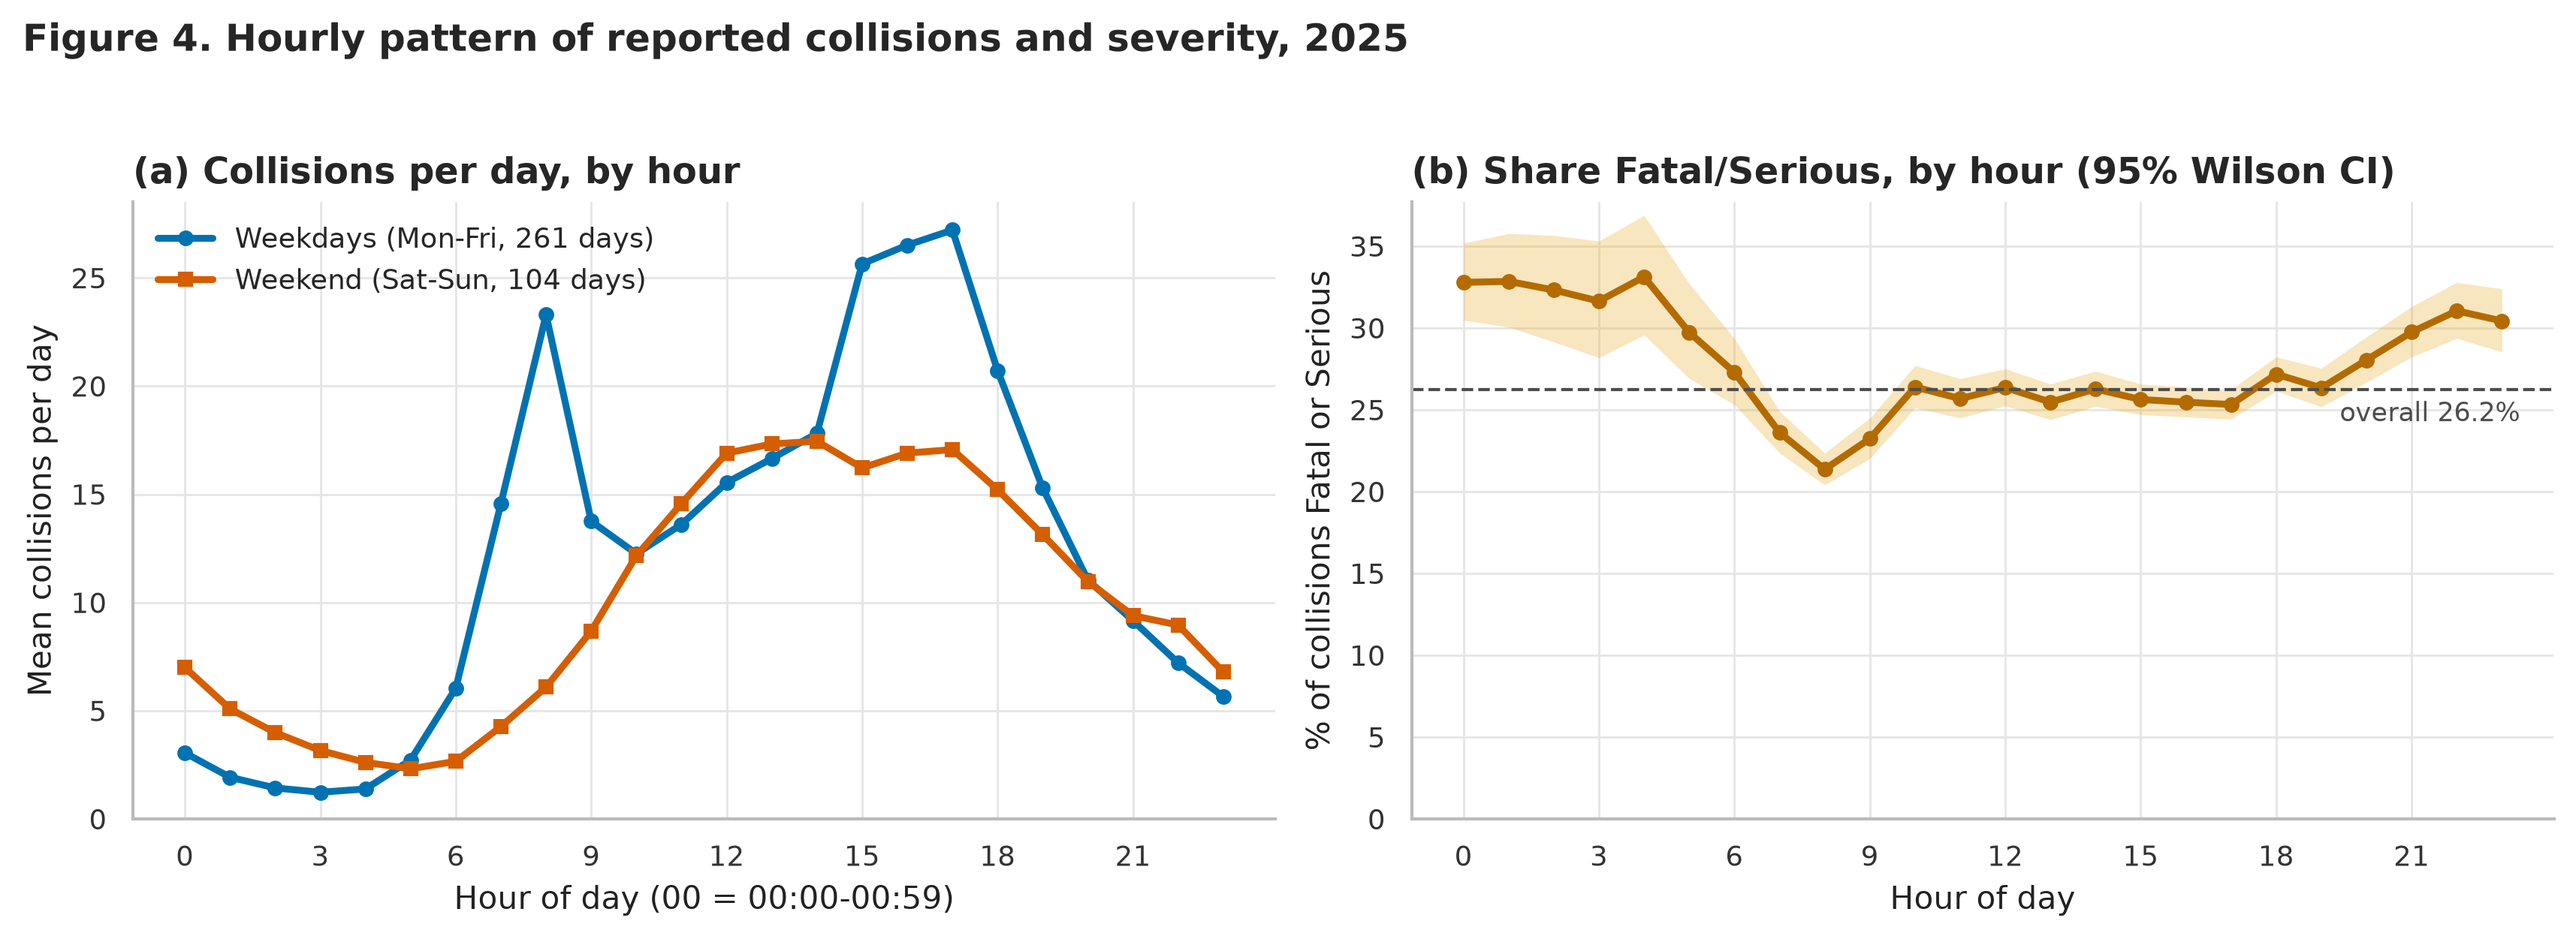
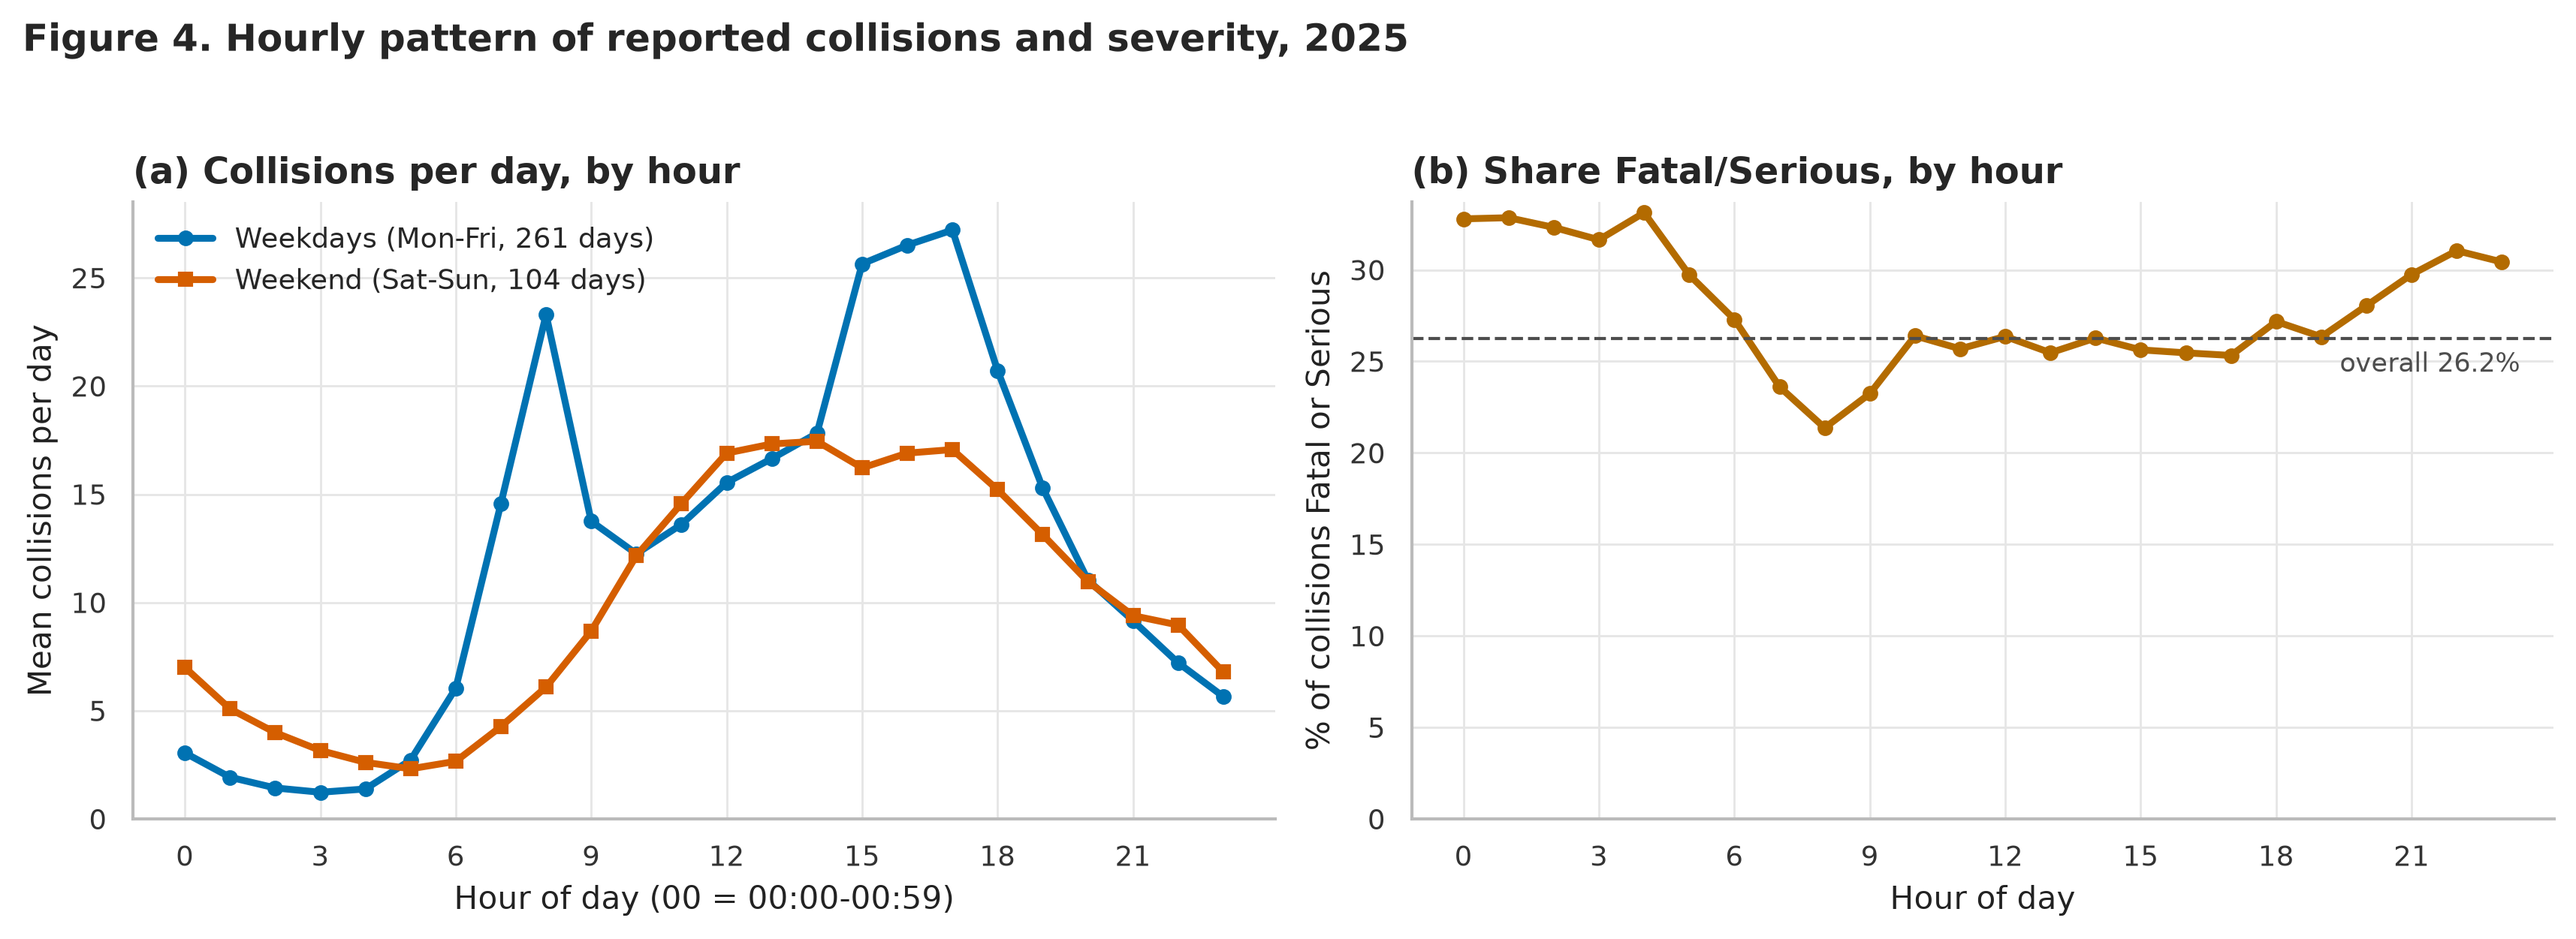
Simplify Figures 4, 6 and 7 for undergraduate coursework
- Fig 4: remove CI shading, plain line graphs
- Fig 6: replace CI dot plots with bar charts
- Fig 7: replace residual/CI plots with observed vs expected counts and chi-square contributions
- Regenerate interpretations and analysis summary; statistics unchanged

Changed region(s): [[0.5615, 0.2182, 0.9983, 0.53], [0.8111, 0.1559, 0.9359, 0.2182]]

diff --git a/src/04_cda.py b/src/04_cda.py
@@ -6,14 +6,20 @@ H1: lighting conditions and collision severity are associated.   alpha = 0.05
 Outputs: outputs/tables/04_*.csv, outputs/statistical_results/04_cda_results.json,
 outputs/statistical_results/04_cda_report.md and outputs/figures/fig07_cda_lighting_severity.png
 """
+import textwrap
+
 import matplotlib.pyplot as plt
 import numpy as np
 import pandas as pd
-from matplotlib.colors import LinearSegmentedColormap
 from scipy import stats
 
 from common import (ACCENT, LIGHT_ORDER, NEUTRAL, SEVERITY_ORDER, STAT_DIR, TAB_DIR, cohen_v_label,
                     cramers_v, fmt_p, load_processed, save_fig, save_json, set_plot_style, wilson_ci)
+
+
+def wrap(s, w=22):
+    return "\n".join(textwrap.wrap(s, w))
+
 
 ALPHA = 0.05
 SEED = 20250101
@@ -158,36 +164,28 @@ def main() -> None:
     }
 
     # ------------------------------------------------ figure 7
-    div = LinearSegmentedColormap.from_list("bw", ["#0072B2", "#F2F2F2", "#D55E00"])
-    fig = plt.figure(figsize=(14, 4.9))
-    gs = fig.add_gridspec(1, 3, width_ratios=[1.25, 1, 1], wspace=0.5)
-    ax = fig.add_subplot(gs[0])
-    lim = max(10, float(np.ceil(res["adj_resid"].abs().values.max() / 5) * 5))
-    im = ax.imshow(res["adj_resid"].values, cmap=div, vmin=-lim, vmax=lim, aspect="auto")
-    ax.set_xticks(range(3)); ax.set_xticklabels(SEVERITY_ORDER)
-    ax.set_yticks(range(5)); ax.set_yticklabels([c.replace("Darkness - ", "Dark: ") for c in LIGHT_ORDER])
-    for i in range(5):
-        for j in range(3):
-            ax.text(j, i, f"{res['adj_resid'].values[i, j]:+.1f}\n(n={obs.values[i, j]:,})", ha="center", va="center", fontsize=8.5,
-                    color="white" if abs(res["adj_resid"].values[i, j]) > 0.65 * lim else "#111")
-    ax.grid(False); ax.set_title("(a) Adjusted residuals\n(observed vs expected under H0)", fontsize=10.5)
-    cb = fig.colorbar(im, ax=ax, orientation="horizontal", location="bottom", fraction=0.06, pad=0.14); cb.set_label("adjusted residual (SD units)", fontsize=8.5)
-    for k, (key, title, xlab) in enumerate([("KSI (Fatal+Serious)", "(b) Fatal or Serious share", "% Fatal or Serious"), ("Fatal", "(c) Fatal share", "% Fatal")]):
-        ax = fig.add_subplot(gs[k + 1])
-        y = np.arange(5)[::-1]
-        vals = P.loc[LIGHT_ORDER]
-        ax.hlines(y, vals[f"{key}_ci_low"], vals[f"{key}_ci_high"], color=ACCENT, lw=2.2)
-        ax.scatter(vals[f"{key}_pct"], y, color=ACCENT, s=50, zorder=3, edgecolor="white", linewidth=0.8)
-        ax.axvline(P.loc["All (valid lighting)", f"{key}_pct"], color=NEUTRAL, ls="--", lw=1)
-        ax.set_yticks(y); ax.set_yticklabels([c.replace("Darkness - ", "Dark: ") for c in LIGHT_ORDER] if k == 0 else [])
-        ax.set_xlim(0, float(vals[f"{key}_ci_high"].max()) * 1.22); ax.set_ylim(-0.5, 4.5)
-        ax.set_xlabel(xlab); ax.set_title(title, fontsize=10.5); ax.grid(axis="y", visible=False)
-        for yy, (_, r) in zip(y, vals.iterrows()):
-            ax.text(r[f"{key}_ci_high"] + 0.02 * ax.get_xlim()[1], yy, f"{r[f'{key}_pct']:.1f}%", fontsize=8.5, va="center")
-    fig.suptitle(f"Figure 7. Lighting x severity: chi-square({res['dof']}) = {res['chi2']:,.1f}, p {('< 1e-300' if res['p'] < 1e-300 else '= ' + fmt_p(res['p']))}, Cramér's V = {res['v']:.3f} ({v_label}); n = {res['n']:,}",
+    short = [c.replace("Darkness - ", "Dark: ") for c in LIGHT_ORDER]
+    ksi_obs = (obs["Fatal"] + obs["Serious"]).values
+    ksi_exp = (res["expected"]["Fatal"] + res["expected"]["Serious"]).values
+    contrib_pct = (100 * res["contrib"].sum(axis=1) / res["chi2"]).values
+    fig, axes = plt.subplots(1, 2, figsize=(11.5, 4.2))
+    ax = axes[0]
+    x = np.arange(5); w = 0.38
+    ax.bar(x - w / 2, ksi_obs, w, color=ACCENT, label="Observed")
+    ax.bar(x + w / 2, ksi_exp, w, color=NEUTRAL, alpha=0.6, label="Expected if independent")
+    for xx, o_ in zip(x, ksi_obs):
+        ax.text(xx - w / 2, o_ + 300, f"{int(o_):,}", ha="center", fontsize=7.8)
+    ax.set_xticks(x); ax.set_xticklabels([wrap(c, 11) for c in short], fontsize=8.5)
+    ax.set_ylabel("Fatal or Serious collisions"); ax.set_title("(a) Observed vs expected Fatal/Serious counts"); ax.legend(); ax.grid(axis="x", visible=False)
+    ax.yaxis.set_major_formatter(plt.FuncFormatter(lambda v, _: f"{int(v):,}"))
+    ax = axes[1]
+    ax.bar(x, contrib_pct, color=ACCENT, width=0.6)
+    for xx, c_ in zip(x, contrib_pct):
+        ax.text(xx, c_ + 1.5, f"{c_:.1f}%", ha="center", fontsize=8.5)
+    ax.set_xticks(x); ax.set_xticklabels([wrap(c, 11) for c in short], fontsize=8.5)
+    ax.set_ylim(0, max(contrib_pct) * 1.15); ax.set_ylabel("% of chi-square statistic"); ax.set_title("(b) Which lighting category drives the chi-square?"); ax.grid(axis="x", visible=False)
+    fig.suptitle(f"Figure 7. Lighting x severity: chi-square({res['dof']}) = {res['chi2']:,.1f}, p {('< 1e-300' if res['p'] < 1e-300 else '= ' + fmt_p(res['p']))}, Cramér's V = {res['v']:.3f} ({v_label}); n = {res['n']:,}; {'reject' if reject else 'fail to reject'} H0",
                  x=0.01, ha="left", fontweight="bold", fontsize=11.5, y=1.03)
-    fig.text(0.01, -0.04, "Panels (b)-(c): points = observed %, bars = 95% Wilson CI, dashed line = overall % (all valid-lighting collisions). Positive (orange) residuals = more collisions than expected under independence.",
-             fontsize=8.3, color=NEUTRAL)
     save_fig(fig, "fig07_cda_lighting_severity.png")
 
     # ------------------------------------------------ interpretation text

diff --git a/src/03_eda.py b/src/03_eda.py
@@ -250,12 +250,11 @@ def main() -> None:
     ax.set_xticks(range(0, 24, 3)); ax.set_xlabel("Hour of day (00 = 00:00-00:59)"); ax.set_ylabel("Mean collisions per day")
     ax.legend(loc="upper left"); ax.set_title("(a) Collisions per day, by hour"); ax.set_ylim(bottom=0)
     ax = axes[1]
-    ax.fill_between(hourly.index, hourly["ksi_ci_low"], hourly["ksi_ci_high"], color=SEV_COLORS["Serious"], alpha=0.25, lw=0)
     ax.plot(hourly.index, hourly["ksi_pct"], color="#B36B00", lw=2.2, marker="o", ms=4)
     ax.axhline(R["ksi_overall"], color=NEUTRAL, ls="--", lw=1)
     ax.text(23.4, R["ksi_overall"] - 0.7, f"overall {R['ksi_overall']:.1f}%", ha="right", va="top", fontsize=8.5, color=NEUTRAL)
     ax.set_xticks(range(0, 24, 3)); ax.set_xlabel("Hour of day"); ax.set_ylabel("% of collisions Fatal or Serious")
-    ax.set_title("(b) Share Fatal/Serious, by hour (95% Wilson CI)"); ax.set_ylim(bottom=0)
+    ax.set_title("(b) Share Fatal/Serious, by hour"); ax.set_ylim(bottom=0)
     fig.suptitle("Figure 4. Hourly pattern of reported collisions and severity, 2025", x=0.01, ha="left", fontweight="bold", fontsize=12, y=1.03)
     fig.tight_layout()
     save_fig(fig, "fig04_hourly_pattern.png")
@@ -295,15 +294,16 @@ def main() -> None:
             t = t[t["category"].isin(["Urban", "Rural"])]
         y = np.arange(len(t))
         colors = [GREY if c in ("Unknown", "Other") else ACCENT for c in t["category"]]
-        ax.hlines(y, t["ksi_ci_low"], t["ksi_ci_high"], color=colors, lw=2)
-        ax.scatter(t["ksi_pct"], y, color=colors, s=48, zorder=3, edgecolor="white", linewidth=0.8)
+        ax.barh(y, t["ksi_pct"], color=colors, height=0.62)
+        for yy, p_ in zip(y, t["ksi_pct"]):
+            ax.text(p_ + 0.6, yy, f"{p_:.1f}%", va="center", fontsize=8.5)
         ax.axvline(R["ksi_overall"], color=NEUTRAL, ls="--", lw=1)
         ax.set_yticks(y); ax.set_yticklabels([f"{wrap(c, 26)}\n(n={n:,})" for c, n in zip(t["category"], t["n"])], fontsize=8.6)
-        ax.set_xlim(0, 42); ax.set_ylim(-0.6, len(t) - 0.4)
+        ax.set_xlim(0, 45); ax.set_ylim(-0.6, len(t) - 0.4)
         if v == "speed_limit_mph":
             ax.invert_yaxis()
         ax.set_xlabel("% of collisions Fatal or Serious"); ax.set_title(title); ax.grid(axis="y", visible=False)
-    fig.suptitle(f"Figure 6. Share of collisions that were Fatal or Serious, by road and weather characteristics\n(points = %, bars = 95% Wilson CI; dashed line = overall {R['ksi_overall']:.1f}%; grey = 'Other'/'Unknown')",
+    fig.suptitle(f"Figure 6. Share of collisions that were Fatal or Serious, by road and weather characteristics\n(bars = %; dashed line = overall {R['ksi_overall']:.1f}%; grey = 'Other'/'Unknown')",
                  x=0.01, ha="left", fontweight="bold", fontsize=11.5, y=1.02)
     fig.tight_layout()
     save_fig(fig, "fig06_ksi_by_road_weather.png")
@@ -364,7 +364,7 @@ def main() -> None:
             f"(b) Single carriageways ({R['roadtype_ksi']['Single carriageway']['ksi_pct']:.1f}%) exceed dual carriageways ({R['roadtype_ksi']['Dual carriageway']['ksi_pct']:.1f}%), one-way streets ({R['roadtype_ksi']['One way street']['ksi_pct']:.1f}%), "
             f"slip roads ({R['roadtype_ksi']['Slip road']['ksi_pct']:.1f}%) and roundabouts ({R['roadtype_ksi']['Roundabout']['ksi_pct']:.1f}%). "
             f"(c) Weather shows little difference between the two common categories (fine {R['weather_ksi']['Fine no high winds']['ksi_pct']:.1f}%, rain {R['weather_ksi']['Raining no high winds']['ksi_pct']:.1f}%); fog/mist and fine-with-high-wind categories are higher "
-            f"(about 32%) but with wide intervals. The very low 'Unknown' weather share ({R['weather_ksi']['Unknown']['ksi_pct']:.1f}%) is likely a reporting effect: "
+            f"(about 32%) but are based on few collisions. The very low 'Unknown' weather share ({R['weather_ksi']['Unknown']['ksi_pct']:.1f}%) is likely a reporting effect: "
             f"{R['unknown_weather_not_attended_pct']:.0f}% of 'Unknown weather' collisions had no police officer attending, and KSI share is "
             f"{att['Yes']['ksi_pct']:.1f}% where an officer attended vs {att['No']['ksi_pct']:.1f}% (no attendance) and {att_self['ksi_pct']:.1f}% (self-completion form). "
             f"(d) Rural collisions are more often Fatal/Serious ({R['area_ksi']['Rural']['ksi_pct']:.1f}%) than urban ones ({R['area_ksi']['Urban']['ksi_pct']:.1f}%)."),

diff --git a/src/05_summary.py b/src/05_summary.py
@@ -24,9 +24,9 @@ def main() -> None:
     C = load_json(STAT_DIR / "04_cda_results.json")
     interp = R["interpretations"]
     interp["fig07_cda_lighting_severity.png"] = (
-        f"Panel (a) shows adjusted residuals: Daylight has fewer Fatal/Serious and more Slight collisions than independence would predict, while 'Darkness - no lighting' has far more Fatal "
-        f"(+{C['top_adjusted_residual_cells'][0]['adj_resid']:.1f}) and Serious collisions and far fewer Slight ones. Panels (b)-(c) give the observed Fatal-or-Serious and Fatal shares with 95% Wilson CIs. "
-        f"Only 'no lighting' differs markedly from the overall share on both measures; 'lights lit' is slightly higher than daylight, 'lights unlit' is higher but imprecise (n=720), and 'lighting unknown' is lower. "
+        f"Panel (a) compares the observed number of Fatal or Serious collisions in each lighting category with the number expected if lighting and severity were independent: "
+        f"'Darkness - no lighting' has far more than expected, while Daylight and 'lighting unknown' have fewer. Panel (b) shows each category's share of the chi-square statistic. "
+        f"Only 'no lighting' departs markedly from independence; 'lights lit' is slightly higher than daylight and 'lights unlit' is higher but based on few collisions (n=720). "
         f"{C['interpretation']['practical']}")
 
     desc = pd.read_csv(TAB_DIR / "03_descriptive_numeric.csv")
@@ -133,7 +133,7 @@ def main() -> None:
         "fig04_hourly_pattern.png": "Figure 4 - Hourly pattern and Fatal/Serious share (`03_hourly_summary.csv`)",
         "fig05_severity_by_lighting.png": "Figure 5 - Severity by lighting (`03_severity_by_lighting.csv`)",
         "fig06_ksi_by_road_weather.png": "Figure 6 - Fatal/Serious share by speed limit, road type, weather, area (`03_ksi_by_conditions.csv`)",
-        "fig07_cda_lighting_severity.png": "Figure 7 - CDA: adjusted residuals and severity shares with 95% CI (`04_*.csv`)",
+        "fig07_cda_lighting_severity.png": "Figure 7 - CDA: observed vs expected Fatal/Serious counts and chi-square contributions (`04_*.csv`)",
     }
     for f in figs:
         a(f"### `{f}`")

diff --git a/outputs/analysis_summary.md b/outputs/analysis_summary.md
@@ -195,13 +195,13 @@ Compared with daylight (KSI 25.3%, Fatal 1.2%), the Fatal/Serious share is highe
 
 *Figure 6 - Fatal/Serious share by speed limit, road type, weather, area (`03_ksi_by_conditions.csv`)*
 
-(a) The KSI share rises with speed limit from 22.4% (20 mph) through 24.8% (30), 27.3% (40) and 29.6% (50) to 36.4% (60 mph); it is lower at 70 mph (25.5%), so the relationship is not monotonic. (b) Single carriageways (27.9%) exceed dual carriageways (24.6%), one-way streets (20.6%), slip roads (20.0%) and roundabouts (19.5%). (c) Weather shows little difference between the two common categories (fine 26.8%, rain 26.1%); fog/mist and fine-with-high-wind categories are higher (about 32%) but with wide intervals. The very low 'Unknown' weather share (12.5%) is likely a reporting effect: 94% of 'Unknown weather' collisions had no police officer attending, and KSI share is 31.8% where an officer attended vs 16.3% (no attendance) and 12.1% (self-completion form). (d) Rural collisions are more often Fatal/Serious (30.9%) than urban ones (23.9%).
+(a) The KSI share rises with speed limit from 22.4% (20 mph) through 24.8% (30), 27.3% (40) and 29.6% (50) to 36.4% (60 mph); it is lower at 70 mph (25.5%), so the relationship is not monotonic. (b) Single carriageways (27.9%) exceed dual carriageways (24.6%), one-way streets (20.6%), slip roads (20.0%) and roundabouts (19.5%). (c) Weather shows little difference between the two common categories (fine 26.8%, rain 26.1%); fog/mist and fine-with-high-wind categories are higher (about 32%) but are based on few collisions. The very low 'Unknown' weather share (12.5%) is likely a reporting effect: 94% of 'Unknown weather' collisions had no police officer attending, and KSI share is 31.8% where an officer attended vs 16.3% (no attendance) and 12.1% (self-completion form). (d) Rural collisions are more often Fatal/Serious (30.9%) than urban ones (23.9%).
 
 ### `fig07_cda_lighting_severity.png`
 
-*Figure 7 - CDA: adjusted residuals and severity shares with 95% CI (`04_*.csv`)*
+*Figure 7 - CDA: observed vs expected Fatal/Serious counts and chi-square contributions (`04_*.csv`)*
 
-Panel (a) shows adjusted residuals: Daylight has fewer Fatal/Serious and more Slight collisions than independence would predict, while 'Darkness - no lighting' has far more Fatal (+21.5) and Serious collisions and far fewer Slight ones. Panels (b)-(c) give the observed Fatal-or-Serious and Fatal shares with 95% Wilson CIs. Only 'no lighting' differs markedly from the overall share on both measures; 'lights lit' is slightly higher than daylight, 'lights unlit' is higher but imprecise (n=720), and 'lighting unknown' is lower. With n = 101,509 even small departures from independence are detectable, so significance alone is uninformative. Cramér's V = 0.058 (95% bootstrap CI 0.052-0.065; bias-corrected 0.058) is negligible by Cohen's benchmarks for df* = 2 (small 0.07, medium 0.21, large 0.35); V^2 = 0.0034, i.e. a very weak overall association. The overall effect is small because most collisions occur in daylight or lit darkness, where severity is close to the overall mix; the 'no lighting' row (only 5.6% of collisions) supplies 89.6% of the chi-square statistic.
+Panel (a) compares the observed number of Fatal or Serious collisions in each lighting category with the number expected if lighting and severity were independent: 'Darkness - no lighting' has far more than expected, while Daylight and 'lighting unknown' have fewer. Panel (b) shows each category's share of the chi-square statistic. Only 'no lighting' departs markedly from independence; 'lights lit' is slightly higher than daylight and 'lights unlit' is higher but based on few collisions (n=720). With n = 101,509 even small departures from independence are detectable, so significance alone is uninformative. Cramér's V = 0.058 (95% bootstrap CI 0.052-0.065; bias-corrected 0.058) is negligible by Cohen's benchmarks for df* = 2 (small 0.07, medium 0.21, large 0.35); V^2 = 0.0034, i.e. a very weak overall association. The overall effect is small because most collisions occur in daylight or lit darkness, where severity is close to the overall mix; the 'no lighting' row (only 5.6% of collisions) supplies 89.6% of the chi-square statistic.
 
 ## 6. Confirmatory data analysis
 

diff --git a/outputs/figure_interpretations.md b/outputs/figure_interpretations.md
@@ -16,4 +16,4 @@ On weekdays collisions peak at 08:00 (23.3 per day) and, higher, at 17:00 (27.2 
 Compared with daylight (KSI 25.3%, Fatal 1.2%), the Fatal/Serious share is higher in lit darkness (26.8%, Fatal 1.3%), with unlit lights (28.9%, Fatal 2.6%, n=720) and especially with no lighting (KSI 36.3%, Fatal 4.7%, 3.9 times the daylight fatal share). Darkness with unknown lighting is the exception (KSI 23.4%, Fatal 1.0%), a category likely linked to collisions recorded without police attendance (see Figure 6 note). The pattern is descriptive: rural roads are over-represented in unlit darkness (rural share 90% of 'no lighting' collisions vs 34% in daylight), so lighting is entangled with road environment.
 
 **fig06_ksi_by_road_weather.png**  
-(a) The KSI share rises with speed limit from 22.4% (20 mph) through 24.8% (30), 27.3% (40) and 29.6% (50) to 36.4% (60 mph); it is lower at 70 mph (25.5%), so the relationship is not monotonic. (b) Single carriageways (27.9%) exceed dual carriageways (24.6%), one-way streets (20.6%), slip roads (20.0%) and roundabouts (19.5%). (c) Weather shows little difference between the two common categories (fine 26.8%, rain 26.1%); fog/mist and fine-with-high-wind categories are higher (about 32%) but with wide intervals. The very low 'Unknown' weather share (12.5%) is likely a reporting effect: 94% of 'Unknown weather' collisions had no police officer attending, and KSI share is 31.8% where an officer attended vs 16.3% (no attendance) and 12.1% (self-completion form). (d) Rural collisions are more often Fatal/Serious (30.9%) than urban ones (23.9%).
+(a) The KSI share rises with speed limit from 22.4% (20 mph) through 24.8% (30), 27.3% (40) and 29.6% (50) to 36.4% (60 mph); it is lower at 70 mph (25.5%), so the relationship is not monotonic. (b) Single carriageways (27.9%) exceed dual carriageways (24.6%), one-way streets (20.6%), slip roads (20.0%) and roundabouts (19.5%). (c) Weather shows little difference between the two common categories (fine 26.8%, rain 26.1%); fog/mist and fine-with-high-wind categories are higher (about 32%) but are based on few collisions. The very low 'Unknown' weather share (12.5%) is likely a reporting effect: 94% of 'Unknown weather' collisions had no police officer attending, and KSI share is 31.8% where an officer attended vs 16.3% (no attendance) and 12.1% (self-completion form). (d) Rural collisions are more often Fatal/Serious (30.9%) than urban ones (23.9%).
